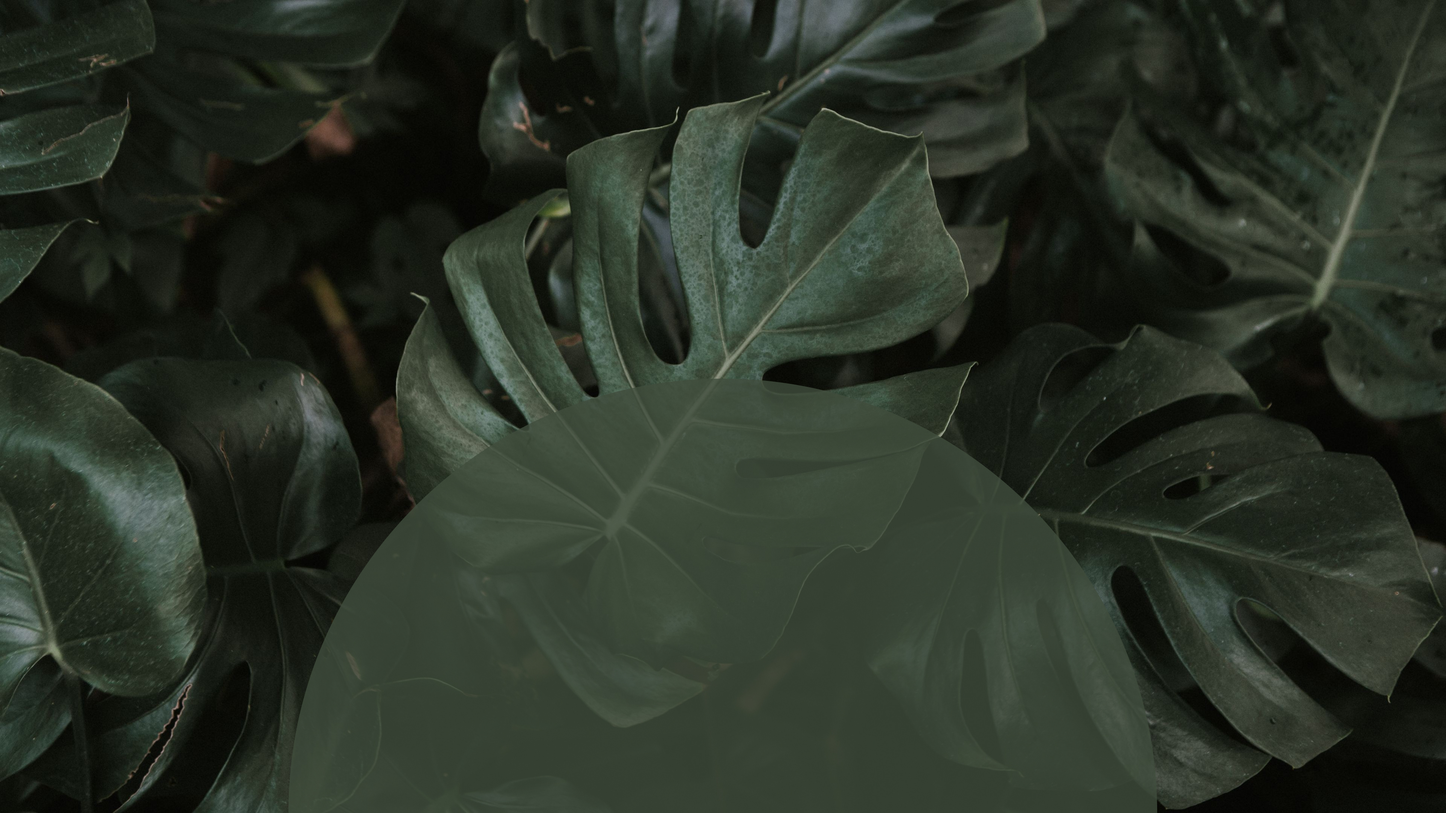
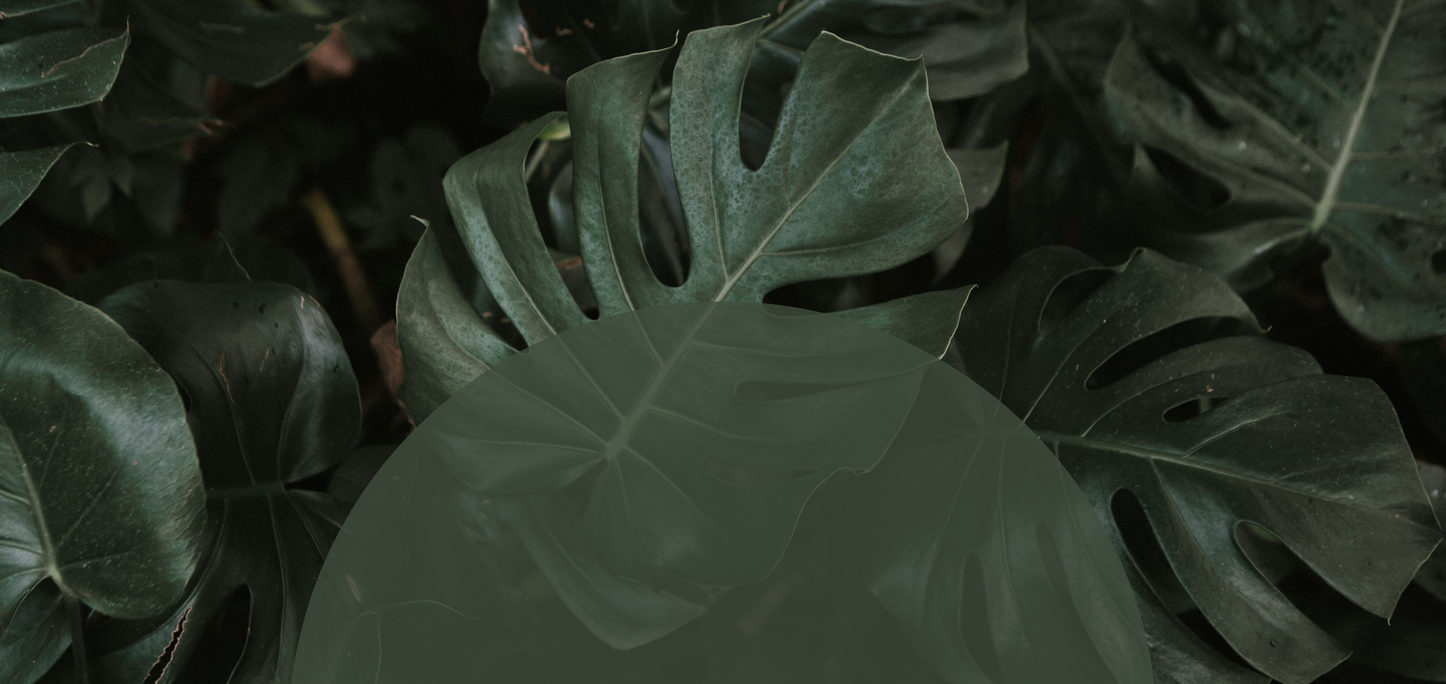
Changed header-picture to a smaller one

diff --git a/stylesheet.css b/stylesheet.css
@@ -1,7 +1,7 @@
 body {
     box-sizing: border-box;
     font-family: "DM Serif Text", serif;
-    font-weight: 400;
+    font-weight: 300;
     font-style: normal;
     background-color: rgb(43, 70, 44);
 }
@@ -39,8 +39,8 @@ h1 {
     grid-row: 2;
     z-index: 1;
     color:  #cccccc;
-    font-size: 60px;
-    margin-bottom: 10px;
+    font-size: 50px;
+    margin: 0;
     letter-spacing: 2px;
 }
 
@@ -48,8 +48,8 @@ header h2 {
     grid-column: 1;
     grid-row: 3;
     z-index: 1;
-    font-size: 25px;
-    margin-bottom: 50px;
+    font-size: 20px;
+    margin-bottom: 20px;
     color:  #cccccc;
     font-weight: 200;
 }

diff --git a/index.html b/index.html
@@ -16,7 +16,7 @@
 <body>
     <div class="container">
         <header>
-            <img src="Header.jpg" alt="">
+            <img src="Header2.jpg" alt="">
             <h1>Plantify Project</h1>
             <h2>🌿 A personal taskmanager for your houseplants 🌿</h2>
         </header>
@@ -48,7 +48,7 @@
     
                     Est quas eligendi ut aliquam pariatur eos architecto aperiam in sequi nostrum et quidem blanditiis. Vel
                     rerum nihil sit animi odio non autem odio et assumenda numquam aut error Quis.</p>
-                    
+
         </main>
 
         <footer>
